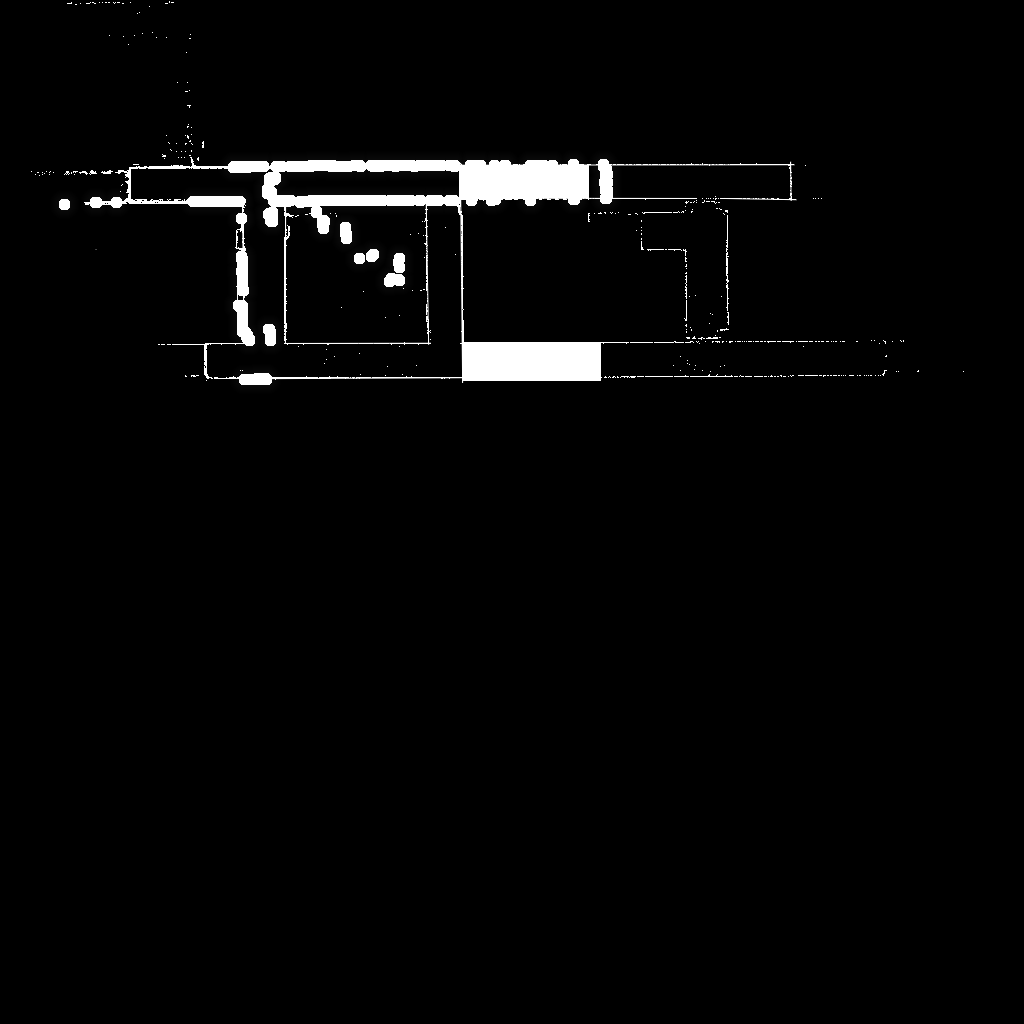
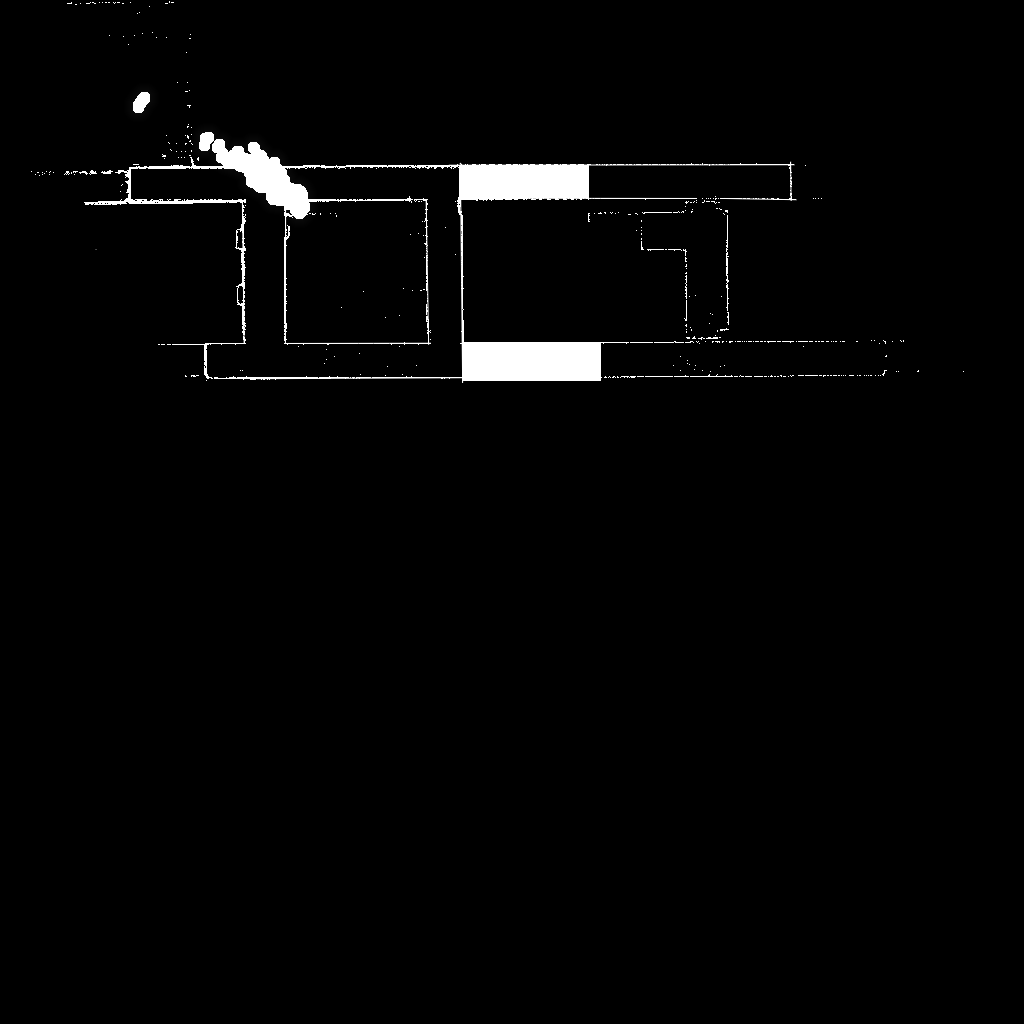
update

diff --git a/sel_start/main.cpp b/sel_start/main.cpp
@@ -1,0 +1,114 @@
+#include <opencv2/opencv.hpp>
+// #include <opencv2/core.hpp>
+// #include <opencv2/core/base.hpp>
+// #include <opencv2/highgui/highgui.hpp>
+// #include <opencv2/imgproc/imgproc.hpp>
+#include <bits/stdc++.h>
+#include <thread>
+#include <queue>
+#include <map>
+#include <unordered_map>
+#include <vector>
+#include <fstream>
+
+#include <pcl/io/pcd_io.h>
+// #include <pcl_conversions/pcl_conversions.h>
+
+#include <pcl/point_types.h>
+#include <pcl/filters/passthrough.h>
+#include <pcl/filters/voxel_grid.h>
+#include <pcl/filters/statistical_outlier_removal.h>
+#include <pcl/filters/conditional_removal.h>
+#include <pcl/filters/radius_outlier_removal.h>
+#include <bits/stl_function.h>
+
+#include "tools.hpp"
+
+using namespace std;
+using namespace cv;
+
+constexpr int picSize = 1024;
+int pointcnt[picSize][picSize];
+Mat img = Mat::zeros(picSize, picSize, CV_8UC1);
+Mat imgShow = Mat::zeros(picSize, picSize, CV_8UC3);
+
+optional<pair<int, int>> startP, endP;
+
+void click(int event, int y, int x, int flags, void *userdata)
+{
+    if (event == EVENT_LBUTTONDOWN)
+    {
+        img.copyTo(imgShow);
+        startP = {x, y};
+        endP = nullopt;
+        drawSquare(imgShow, x, y, 3);
+
+        imshow("img", imgShow);
+
+        cout << "x y " << x << ',' << y << endl;
+
+        auto [orgx, orgy] = invtrans(x, y);
+
+        cout << "org x y " << orgx << ',' << orgy << endl;
+    }
+    else if (event == EVENT_LBUTTONUP)
+    {
+        endP = {x, y};
+        drawSquare(imgShow, x, y, 5);
+        // cout << "x y " << y << ',' << x << endl;
+        cout << "theta:" << atan2(y - startP->second,x - startP->first) << endl;
+
+        imshow("img", imgShow);
+    }
+    else if (event == EVENT_MOUSEMOVE && startP && !endP)
+    {
+        img.copyTo(imgShow);
+        line(imgShow, {startP->second, startP->first}, {y, x}, 0x3f, 3);
+        imshow("img", imgShow);
+    }
+}
+
+// using PointType = pcl::PointXYZINormal;
+using PointType = pcl::PointXYZ;
+
+int main(int argc, char **argv)
+{
+    pcl::PointCloud<PointType>::Ptr target_cloud(new pcl::PointCloud<PointType>);
+    pcl::io::loadPCDFile<PointType>("../805.pcd", *target_cloud);
+
+    initPCD(target_cloud->points, picSize);
+
+    for (auto p : target_cloud->points)
+    {
+        if (p.z > 0.5)
+            continue;
+        auto [x, y] = trans(p.x, p.y);
+        pointcnt[x][y]++;
+    }
+
+    for (int i = 0; i < picSize; i++)
+        for (int j = 0; j < picSize; j++)
+        {
+            if (pointcnt[i][j] < 5)
+                continue;
+
+            img.at<uchar>(i, j) = 0xff;
+        }
+    imwrite("../obstacle.png", img);
+
+    // {
+    //     auto [x, y] = trans(0, 0);
+    //     cout << "x y " << x << ' ' << y << endl;
+    //     drawSquare(img, x, y, 4);
+    //     tie(x, y) = invtrans(x, y);
+    //     cout << "org x y " << x << ' ' << y << endl;
+    // }
+
+    imshow("img", img);
+
+    setMouseCallback("img", click);
+
+    waitKey(0);
+
+    return 0;
+}

diff --git a/src/main.cpp b/src/main.cpp
@@ -42,6 +42,8 @@ void locate()
     while (true)
     {
         auto p = getPointCloud(10000);
+        if (p->empty())
+            continue;
         Eigen::Matrix4f& transMat = match(p, score);
         mtx.lock();
         for (auto pt : p->points)
@@ -78,7 +80,7 @@ int main()
     // signal(SIGSEGV, endCtrl);
     initLidar("../mid360_config.json");
 
-    // this_thread::sleep_for(10s);
+    // this_thread::sleep_for(5s);
     // auto ptr = getPointCloud();
     // cout << ptr->size() << endl;
     // pcl::io::savePCDFileBinaryCompressed("d.pcd", *ptr);
